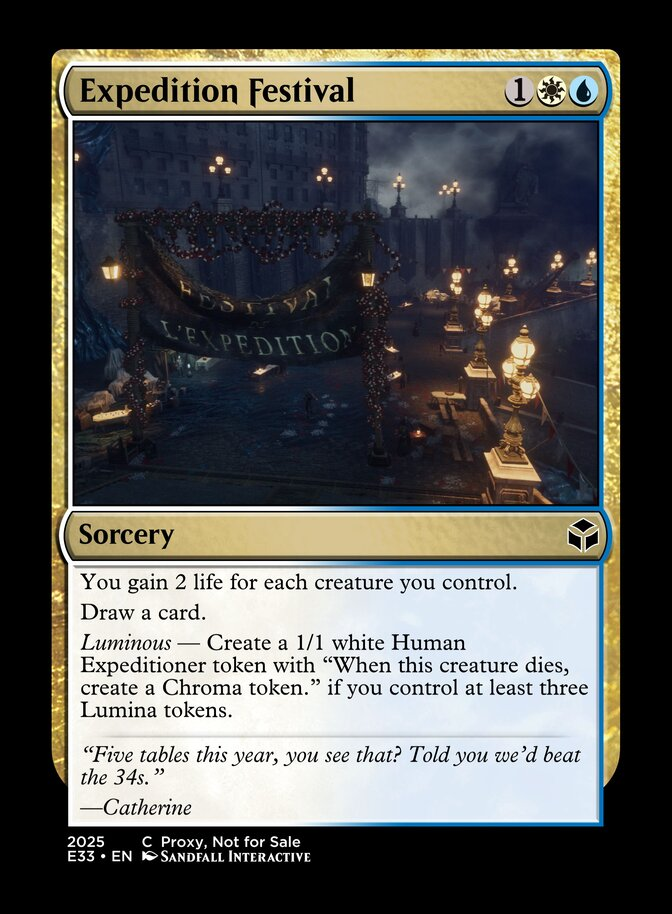
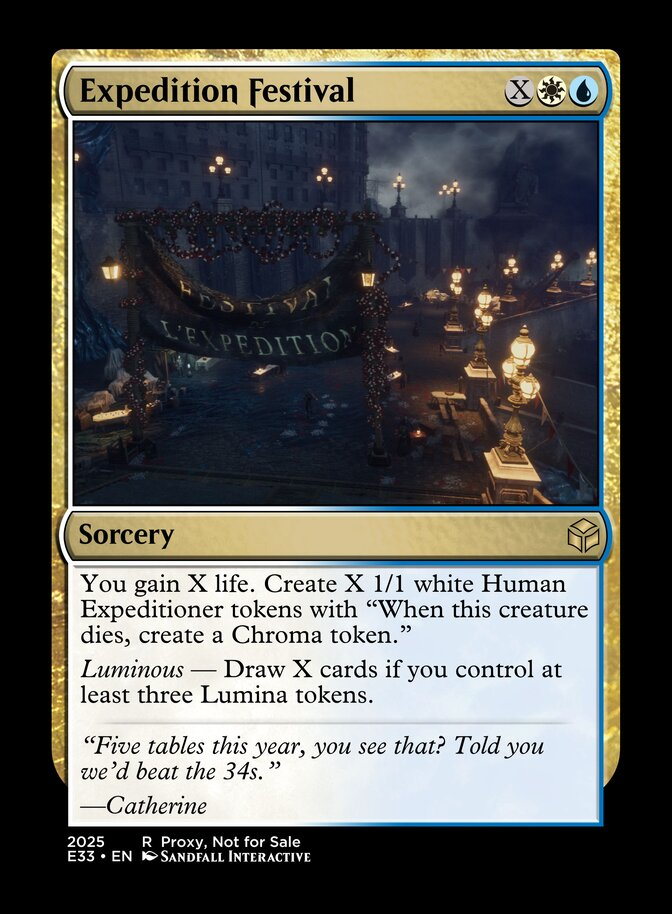
Expedition Festival: Rework card for greater power level. Upshift to Rare.
Fixes #105

Changed region(s): [[0.125, 0.6127, 0.875, 0.919], [0.8438, 0.5514, 0.9062, 0.6127], [0.75, 0.0613, 0.7812, 0.1225]]

diff --git a/design/MULTICOLOR.md b/design/MULTICOLOR.md
@@ -1,6 +1,6 @@
 # Cards
 
-> Last generated: 18/2/2026 11:10:12 am
+> Last generated: 18/2/2026 11:26:01 am
 
 ## A Storm is Coming
 
@@ -975,11 +975,10 @@ When this creature dies, create a Chroma token.
 ## Expedition Festival
 
 ```
-1WU
+XWU
 Sorcery
-You gain 2 life for each creature you control.
-Draw a card.
-Luminous — Create a 1/1 white Human Expeditioner token with "When this creature dies, create a Chroma token." if you control at least three Lumina tokens.
+You gain X life. Create X 1/1 white Human Expeditioner tokens with "When this creature dies, create a Chroma token."
+Luminous — Draw X cards if you control at least three Lumina tokens.
 ---
 "Five tables this year, you see that? Told you we’d beat the 34s."
 —Catherine
@@ -991,6 +990,7 @@ Luminous — Create a 1/1 white Human Expeditioner token with "When this creatur
 
  - In the game's prologue, the Expedition Festival happens after the gommage, where the crew of Expedition 33 drink away their sorrows, say goodbye to their loved ones and do final preparations before departing for the Continent.
  - Gone with variable lifegain, like Festival of Trokin with a creature token Luminous bonus.
+ - 18/02/2026: Reworked the card for greater power level. It's now variable life gain + token creation with the Luminous bonus of variable card draw. This still lines up thematically, as it can be explained flavor-wise as a final gathering of Expeditioners (create X tokens), enjoying their last banquet in the city (gain X life) and doing final preparations before departure (draw X cards)
 
 ## Finesse // Grace
 
